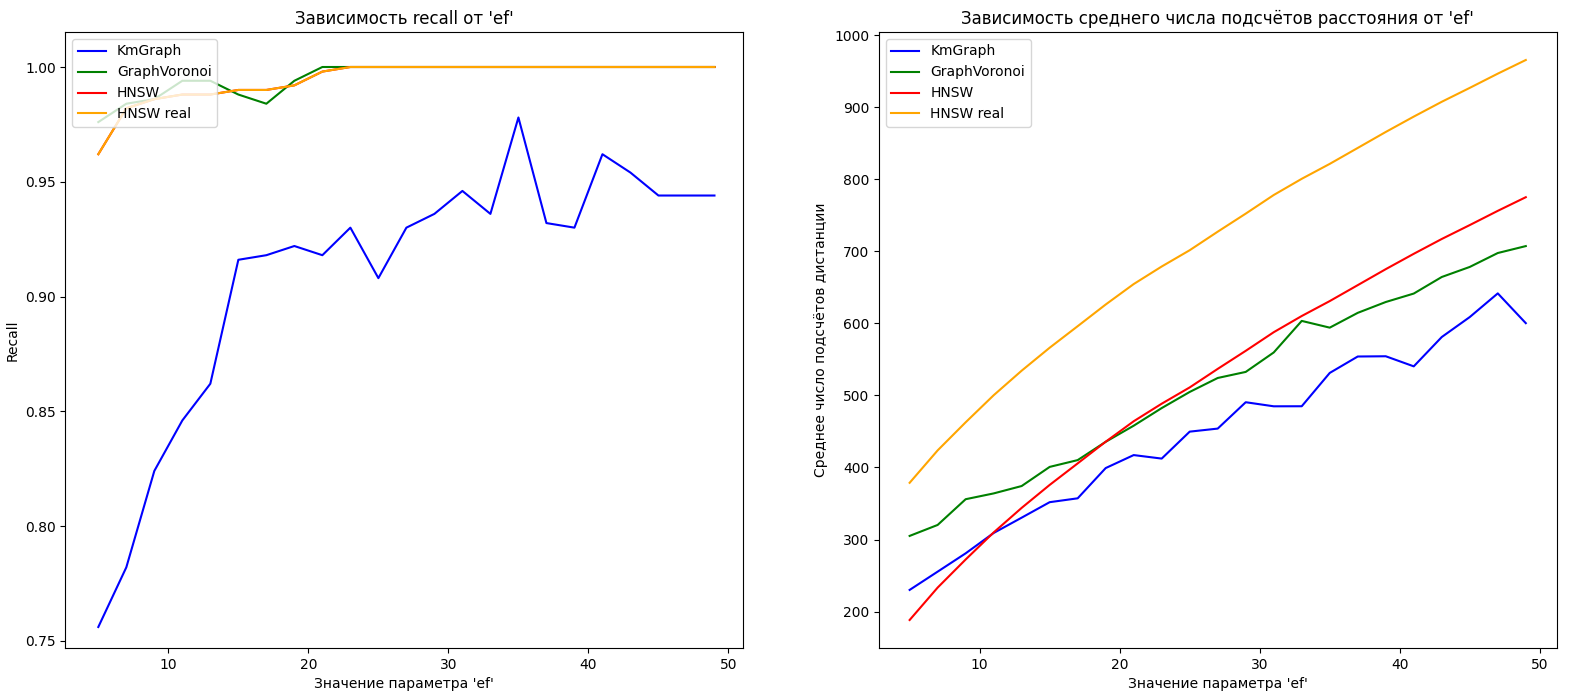
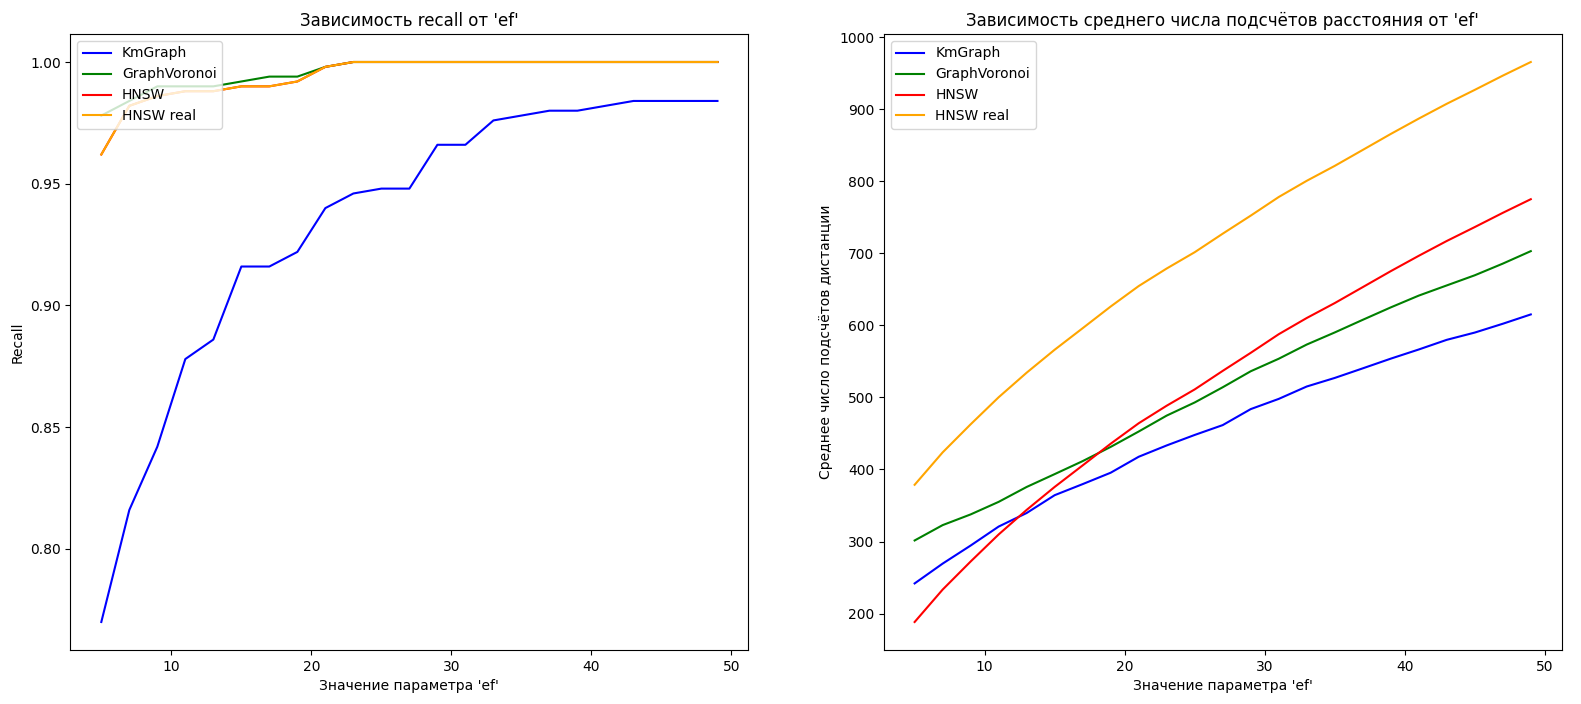
update chart

diff --git a/test_each_graph.py b/test_each_graph.py
@@ -35,25 +35,25 @@ def main():
 
 
     # тестирование графов
-    # recalls = {} # словарь под recall
-    # avg_calls = {} # словарь под среднее число подсчётов дистанции
+    recalls = {} # словарь под recall
+    avg_calls = {} # словарь под среднее число подсчётов дистанции
 
     # тестирование Km Graph
-    # kg = KmGraph(k=args.K, dim=args.dim, dist_func=l2_distance, data=train_data, M=args.M)
-    # recalls["KmGraph"], avg_calls["KmGraph"] = calculate_recall(kg, test_data, groundtruth_data, k=args.k, ef=args.ef, m=args.m)
-    # print(f"Средний recall: {recalls['KmGraph']:.4f}, среднее число подсчётов расстояния: {avg_calls['KmGraph']}.")
+    kg = KmGraph(k=args.K, dim=args.dim, dist_func=l2_distance, data=train_data, M=args.M)
+    recalls["KmGraph"], avg_calls["KmGraph"] = calculate_recall(kg, test_data, groundtruth_data, k=args.k, ef=args.ef, m=args.m)
+    print(f"Средний recall: {recalls['KmGraph']:.4f}, среднее число подсчётов расстояния: {avg_calls['KmGraph']}.")
 
     # тестирование Graph Voronoi
-    # vg = GraphVoronoi(k=args.K, dist_func=l2_distance, data=train_data)
-    # recalls["GraphVoronoi"], avg_calls["GraphVoronoi"] = calculate_recall(vg, test_data, groundtruth_data, k=args.k, ef=args.ef, m=args.m)
-    # print(f"Средний recall: {recalls['GraphVoronoi']:.4f}, среднее число подсчётов расстояния: {avg_calls['GraphVoronoi']}.")
+    vg = GraphVoronoi(k=args.K, dist_func=l2_distance, data=train_data)
+    recalls["GraphVoronoi"], avg_calls["GraphVoronoi"] = calculate_recall(vg, test_data, groundtruth_data, k=args.k, ef=args.ef, m=args.m)
+    print(f"Средний recall: {recalls['GraphVoronoi']:.4f}, среднее число подсчётов расстояния: {avg_calls['GraphVoronoi']}.")
 
     # тестирование HNSW
-    # hnsw = HNSW(distance_func=l2_distance, m=args.M, m0=args.M0, ef=10, ef_construction=30, neighborhood_construction=heuristic)
-    # for x in tqdm(train_data): # добавляем точки в HNSW граф
-    #     hnsw.add(x)
-    # recalls["HNSW"], avg_calls["HNSW"] = calculate_recall_hnsw(l2_distance, hnsw, test_data, groundtruth_data, k=args.k, ef=args.ef, m=args.m) # считаем метрики при построенном HNSW графе и запросах test_data, при условии что ответ — groundtruth_data
-    # print(f"Средний recall: {recalls['HNSW']:.4f}, среднее число подсчётов расстояния: {avg_calls['HNSW']}.")
+    hnsw = HNSW(distance_func=l2_distance, m=args.M, m0=args.M0, ef=10, ef_construction=30, neighborhood_construction=heuristic)
+    for x in tqdm(train_data): # добавляем точки в HNSW граф
+        hnsw.add(x)
+    recalls["HNSW"], avg_calls["HNSW"] = calculate_recall_hnsw(l2_distance, hnsw, test_data, groundtruth_data, k=args.k, ef=args.ef, m=args.m) # считаем метрики при построенном HNSW графе и запросах test_data, при условии что ответ — groundtruth_data
+    print(f"Средний recall: {recalls['HNSW']:.4f}, среднее число подсчётов расстояния: {avg_calls['HNSW']}.")
 
     # hnsw_ = HNSW_mod(distance_func=l2_distance, m=args.M, m0=args.M0, ef=10, ef_construction=30, neighborhood_construction=heuristic)
     # for x in tqdm(train_data): # добавляем точки в HNSW граф
@@ -68,57 +68,77 @@ def main():
     # recalls["HNSW_mod"], avg_calls["HNSW_mod"] = calculate_recall_hnsw_real(l2_distance, hnsw_, test_data, groundtruth_data, k=args.k, ef=args.ef, m=args.m) # считаем метрики при построенном HNSW графе и запросах test_data, при условии что ответ — groundtruth_data
 
     # выводим получившиеся результаты
-    # print("Общее сравнение:")
-    # for graph_type in recalls.keys():
-    #     print(f"Для {graph_type} средний recall: {recalls[graph_type]:.4f}, среднее число подсчётов расстояния: {avg_calls[graph_type]}.")
+    print("Общее сравнение:")
+    for graph_type in recalls.keys():
+        print(f"Для {graph_type} средний recall: {recalls[graph_type]:.4f}, среднее число подсчётов расстояния: {avg_calls[graph_type]}.")
 
 
     # построение графиков
-    import matplotlib.pyplot as plt # для построения графиков
-    recalls = {} # словарь под recall
-    avg_calls = {} # словарь под среднее число подсчётов дистанции
-    ef_params = range(5, 50, 2) # параметр для рассмотрения
-    graph_types = ["KmGraph", "GraphVoronoi", "HNSW", "HNSW real"]
-    colors = {"KmGraph": "blue", "GraphVoronoi": "green", "HNSW": "red", "HNSW real": "orange"}
+    # import matplotlib.pyplot as plt # для построения графиков
+    # import numpy as np
+    # import pickle # для сохранения метрик
+    # recalls = {} # словарь под recall
+    # avg_calls = {} # словарь под среднее число подсчётов дистанции
+    # ef_params = range(5, 50, 2) # параметр для рассмотрения
+    # graph_types = ["KmGraph", "GraphVoronoi", "HNSW", "HNSW real"]
+    # colors = {"KmGraph": "blue", "GraphVoronoi": "green", "HNSW": "red", "HNSW real": "orange"}
 
-    kg = KmGraph(k=args.K, dim=args.dim, dist_func=l2_distance, data=train_data, M=args.M)
+    # kg = KmGraph(k=args.K, dim=args.dim, dist_func=l2_distance, data=train_data, M=args.M)
 
-    vg = GraphVoronoi(k=args.K, dist_func=l2_distance, data=train_data)
+    # vg = GraphVoronoi(k=args.K, dist_func=l2_distance, data=train_data)
 
-    hnsw = HNSW(distance_func=l2_distance, m=args.M, m0=args.M0, ef=10, ef_construction=30, neighborhood_construction=heuristic)
-    for x in tqdm(train_data): # добавляем точки в HNSW граф
-        hnsw.add(x)
+    # hnsw = HNSW(distance_func=l2_distance, m=args.M, m0=args.M0, ef=10, ef_construction=30, neighborhood_construction=heuristic)
+    # for x in tqdm(train_data): # добавляем точки в HNSW граф
+    #     hnsw.add(x)
 
-    hnsw_ = HNSW_mod(distance_func=l2_distance, m=args.M, m0=args.M0, ef=10, ef_construction=30, neighborhood_construction=heuristic)
-    for x in tqdm(train_data): # добавляем точки в HNSW граф
-        hnsw_.add(x)
+    # hnsw_ = HNSW_mod(distance_func=l2_distance, m=args.M, m0=args.M0, ef=10, ef_construction=30, neighborhood_construction=heuristic)
+    # for x in tqdm(train_data): # добавляем точки в HNSW граф
+    #     hnsw_.add(x)
 
-    for graph_type in graph_types:
-        recalls[graph_type] = {}
-        avg_calls[graph_type] = {}
-        for ef in ef_params: # идём по значению параметра ef
-            if graph_type == "KmGraph":
-                recalls[graph_type][ef], avg_calls[graph_type][ef] = calculate_recall(kg, test_data, groundtruth_data, k=args.k, ef=ef, m=args.m)
-            if graph_type == "GraphVoronoi":
-                recalls[graph_type][ef], avg_calls[graph_type][ef] = calculate_recall(vg, test_data, groundtruth_data, k=args.k, ef=ef, m=args.m)
-            if graph_type == "HNSW":
-                recalls[graph_type][ef], avg_calls[graph_type][ef] = calculate_recall_hnsw(l2_distance, hnsw, test_data, groundtruth_data, k=args.k, ef=ef, m=args.m)
-            if graph_type == "HNSW real":
-                recalls[graph_type][ef], avg_calls[graph_type][ef] = calculate_recall_hnsw_real(l2_distance, hnsw_, test_data, groundtruth_data, k=args.k, ef=ef, m=args.m)
+    # for graph_type in graph_types:
+    #     recalls[graph_type] = {}
+    #     avg_calls[graph_type] = {}
+    #     for ef in ef_params: # идём по значению параметра ef
+    #         random.seed(108) # фиксируем параметр для генерации случайных чисел
+    #         if graph_type == "KmGraph":
+    #             recalls[graph_type][ef], avg_calls[graph_type][ef] = calculate_recall(kg, test_data, groundtruth_data, k=args.k, ef=ef, m=args.m)
+    #         if graph_type == "GraphVoronoi":
+    #             recalls[graph_type][ef], avg_calls[graph_type][ef] = calculate_recall(vg, test_data, groundtruth_data, k=args.k, ef=ef, m=args.m)
+    #         if graph_type == "HNSW":
+    #             recalls[graph_type][ef], avg_calls[graph_type][ef] = calculate_recall_hnsw(l2_distance, hnsw, test_data, groundtruth_data, k=args.k, ef=ef, m=args.m)
+    #         if graph_type == "HNSW real":
+    #             recalls[graph_type][ef], avg_calls[graph_type][ef] = calculate_recall_hnsw_real(l2_distance, hnsw_, test_data, groundtruth_data, k=args.k, ef=ef, m=args.m)
 
-    fig, axes = plt.subplots(ncols=2, figsize=(20,8)) # создаём фигуру с несколькими подграфиками (ncols и/или nrows) размера figsize
-    for graph_type in graph_types:
-        axes[0].plot(recalls[graph_type].keys(), recalls[graph_type].values(), color=colors[graph_type], label=graph_type)
-        axes[1].plot(avg_calls[graph_type].keys(), avg_calls[graph_type].values(), color=colors[graph_type], label=graph_type)
-    axes[0].set_title("Зависимость recall от 'ef'") # название фигуры
-    axes[0].set_xlabel("Значение параметра 'ef'") # подпись по оси OX
-    axes[0].set_ylabel("Recall") # подпись по оси OY
-    axes[0].legend(loc="upper left")
-    axes[1].set_title("Зависимость среднего числа подсчётов расстояния от 'ef'") # название фигуры
-    axes[1].set_xlabel("Значение параметра 'ef'") # подпись по оси OX
-    axes[1].set_ylabel("Среднее число подсчётов дистанции") # подпись по оси OY
-    axes[1].legend(loc="upper left")
-    plt.show() # показ фигуры
+    # fig, axes = plt.subplots(ncols=2, figsize=(20,8)) # создаём фигуру с несколькими подграфиками (ncols и/или nrows) размера figsize
+    # for graph_type in graph_types:
+    #     axes[0].plot(recalls[graph_type].keys(), recalls[graph_type].values(), color=colors[graph_type], label=graph_type)
+    #     axes[1].plot(avg_calls[graph_type].keys(), avg_calls[graph_type].values(), color=colors[graph_type], label=graph_type)
+    # axes[0].set_title("Зависимость recall от 'ef'") # название фигуры
+    # axes[0].set_xlabel("Значение параметра 'ef'") # подпись по оси OX
+    # axes[0].set_ylabel("Recall") # подпись по оси OY
+    # axes[0].legend(loc="upper left")
+    # axes[1].set_title("Зависимость среднего числа подсчётов расстояния от 'ef'") # название фигуры
+    # axes[1].set_xlabel("Значение параметра 'ef'") # подпись по оси OX
+    # axes[1].set_ylabel("Среднее число подсчётов дистанции") # подпись по оси OY
+    # axes[1].legend(loc="upper left")
+    # plt.show() # показ фигуры
+
+
+    # plt.figure(figsize=(10,8)) # создаём фигуру с несколькими подграфиками (ncols и/или nrows) размера figsize
+    # nodes_count = len(hnsw.data) # число вершин в графе
+    # for graph_type in graph_types:
+    #     plt.plot(recalls[graph_type].values(), nodes_count/np.array(list(avg_calls[graph_type].values())), color=colors[graph_type], label=graph_type)
+    # plt.title("Соотношение recall к (число вершин графа / количество подсчётов дистанции)")
+    # plt.xlabel("Recall")
+    # plt.xlim([0.96,1.001])
+    # plt.ylabel("Число вершин графа / Количество подсчётов дистанции")
+    # plt.legend()
+    # plt.show() # показ фигуры
+
+    # with open(f"./metrics/recalls.pkl", 'wb') as f: # открытие файла для бинарной ('b') записи ('w')
+    #     pickle.dump(recalls, f) # сохраняем модель
+    # with open(f"./metrics/avg_calls.pkl", 'wb') as f: # открытие файла для бинарной ('b') записи ('w')
+    #     pickle.dump(avg_calls, f) # сохраняем модель
 
 if __name__ == "__main__":
     main()

diff --git a/README.md b/README.md
@@ -34,3 +34,4 @@ python ./test_each_graph.py --dataset sift --K 40 --k 5 --ef 30 --M 32 --M0 64
 
 Ниже представлены графики изменения метрики recall и среднего числа вызовов функции подсчёта расстояния в зависимости от параметра ```ef``` при настройках ```--dataset sift --K 40 --k 5 --M 32 --M0 64```.
 ![Метрики](./images/metrics.png)
+![Соотношение recall к (число вершин графа / количество подсчётов дистанции)](./images/correspondence.png)
